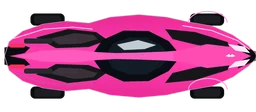
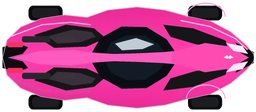
Update app version

diff --git a/tests/car_geometry_smoke.js b/tests/car_geometry_smoke.js
@@ -1,16 +1,89 @@
-/* Per-car OBB/contact/loadout geometry checks. */
-const assert=require('assert').strict,fs=require('fs'),path=require('path'),vm=require('vm');
+/* Per-car sprite contain/aspect-ratio + OBB/contact/loadout geometry checks. */
+const assert=require('assert').strict,fs=require('fs'),path=require('path'),vm=require('vm'),crypto=require('crypto');
 const ROOT=path.resolve(__dirname,'..');global.window=global;window.Racing={clamp:(v,a,b)=>Math.max(a,Math.min(b,v))};
 for(const f of ['public/js/content.js','public/js/car.js'])vm.runInThisContext(fs.readFileSync(path.join(ROOT,f),'utf8'),{filename:f});
 const R=Racing;
+
+function webpSize(file){
+  const b=fs.readFileSync(file);
+  assert.equal(b.toString('ascii',0,4),'RIFF',`${path.basename(file)} missing RIFF`);
+  assert.equal(b.toString('ascii',8,12),'WEBP',`${path.basename(file)} missing WEBP`);
+  for(let p=12;p+8<=b.length;){
+    const type=b.toString('ascii',p,p+4),size=b.readUInt32LE(p+4),d=p+8;
+    if(type==='VP8X'&&size>=10){
+      const width=1+b.readUIntLE(d+4,3),height=1+b.readUIntLE(d+7,3);return {width,height};
+    }
+    if(type==='VP8 '&&size>=10&&d+10<=b.length){
+      const width=b.readUInt16LE(d+6)&0x3fff,height=b.readUInt16LE(d+8)&0x3fff;return {width,height};
+    }
+    if(type==='VP8L'&&size>=5&&b[d]===0x2f){
+      const width=1+b[d+1]+((b[d+2]&0x3f)<<8);
+      const height=1+(b[d+2]>>6)+(b[d+3]<<2)+((b[d+4]&0x0f)<<10);return {width,height};
+    }
+    p=d+size+(size&1);
+  }
+  throw new Error(`${path.basename(file)} unsupported WebP header`);
+}
+function close(a,b,eps=1e-9){return Math.abs(a-b)<=eps;}
 function car(id,x=0,y=0,a=0){const c=new R.Car({maxSpeed:400,accel:210,brakePower:320,turnRate:2.32});c.setLoadout(id,'standard');c.x=x;c.y=y;c.angle=a;return c;}
 function contact(a,b,msg){assert.ok(R.intersectCarOBBs(a,b),msg);}
 function clear(a,b,msg){assert.equal(R.intersectCarOBBs(a,b),null,msg);}
-for(const id of R.REAL_CAR_IDS){const c=car(id);assert.equal(c.maxSpeed,400,`${id} loadout changed maxSpeed`);assert.equal(c.accel,210,`${id} loadout changed accel`);assert.equal(c.brakePower,320,`${id} loadout changed brake`);assert.equal(c.turnRate,2.32,`${id} loadout changed turnRate`);}
+
+// Pure contain sizing must preserve source ratio even when both visual bounds exist.
+let size=R.resolveSpriteSize({visualLength:100,visualWidth:100,raceScale:1,previewScale:1,preserveAspectRatio:true},200,100,false);
+assert.ok(close(size.length,100)&&close(size.width,50),'length-bound contain failed');
+size=R.resolveSpriteSize({visualLength:100,visualWidth:30,raceScale:1,previewScale:1,preserveAspectRatio:true},200,100,false);
+assert.ok(close(size.length,60)&&close(size.width,30),'width-bound contain failed');
+size=R.resolveSpriteSize({visualLength:70,raceScale:1,preserveAspectRatio:true},350,140,false);
+assert.ok(close(size.length/size.width,2.5),'single-bound preserveAspectRatio fallback failed');
+
+for(const id of R.REAL_CAR_IDS){
+  const g=R.CAR_GEOMETRY[id],meta=R.LIVERIES[id],sprite=meta?.sprite,collision=meta?.collision;
+  assert.ok(g,`${id} missing CAR_GEOMETRY`);assert.ok(sprite,`${id} missing sprite`);assert.equal(sprite.preserveAspectRatio,true,`${id} must preserve source aspect ratio`);
+  for(const key of ['visualLength','visualWidth','raceScale','previewScale'])assert.ok(Number.isFinite(g[key])&&g[key]>0,`${id} invalid ${key}`);
+  for(const key of ['raceOffsetX','raceOffsetY','previewOffsetX','previewOffsetY','collisionOffsetX','collisionOffsetY'])assert.ok(Number.isFinite(g[key]),`${id} invalid ${key}`);
+  for(const key of ['collisionLength','collisionWidth'])assert.ok(Number.isFinite(g[key])&&g[key]>0,`${id} invalid ${key}`);
+  assert.ok(collision&&collision.length===g.collisionLength&&collision.width===g.collisionWidth,`${id} collision metadata mismatch`);
+
+  const fullPath=path.join(ROOT,'public',sprite.src),thumbPath=path.join(ROOT,'public',sprite.thumbnail);
+  const full=webpSize(fullPath),thumb=webpSize(thumbPath),fullRatio=full.width/full.height,thumbRatio=thumb.width/thumb.height;
+  assert.ok(Math.abs(fullRatio-thumbRatio)<.012,`${id} full/thumbnail source ratios diverge`);
+
+  const race=R.resolveSpriteSize(sprite,full.width,full.height,false);
+  const preview=R.resolveSpriteSize(sprite,full.width,full.height,true);
+  const thumbnail=R.resolveSpriteSize(sprite,thumb.width,thumb.height,true);
+  for(const [mode,r] of [['race',race],['preview',preview],['thumbnail',thumbnail]]){
+    assert.ok(Number.isFinite(r.length)&&r.length>0&&Number.isFinite(r.width)&&r.width>0,`${id} ${mode} size invalid`);
+    assert.ok(r.length<=r.maxLength+1e-9&&r.width<=r.maxWidth+1e-9,`${id} ${mode} escapes contain bounds`);
+  }
+  assert.ok(Math.abs(race.length/race.width-fullRatio)<1e-10,`${id} race aspect ratio distorted`);
+  assert.ok(Math.abs(preview.length/preview.width-fullRatio)<1e-10,`${id} preview aspect ratio distorted`);
+  assert.ok(Math.abs(thumbnail.length/thumbnail.width-thumbRatio)<1e-10,`${id} thumbnail aspect ratio distorted`);
+  assert.ok(Math.abs(thumbnail.length/preview.length-1)<.015&&Math.abs(thumbnail.width/preview.width-1)<.015,`${id} thumbnail/full preview scale mismatch`);
+  // Catalog/garage previews fit one shared visual envelope while preserving each WebP ratio.
+  // Narrow/long bodies can stay longer and compact/wide hypercars can stay wider, but neither
+  // dimension may become an outlier. Gameplay sizing is checked separately below.
+  assert.ok(preview.length>=74&&preview.length<=81,`${id} preview length escaped normalized range: ${preview.length.toFixed(1)}`);
+  assert.ok(preview.width>=34&&preview.width<=49,`${id} preview width escaped normalized range: ${preview.width.toFixed(1)}`);
+  assert.ok(thumbnail.length>=74&&thumbnail.length<=81,`${id} thumbnail length escaped normalized range: ${thumbnail.length.toFixed(1)}`);
+  assert.ok(thumbnail.width>=34&&thumbnail.width<=49,`${id} thumbnail width escaped normalized range: ${thumbnail.width.toFixed(1)}`);
+  assert.ok(g.previewScale>=.9&&g.previewScale<=1.45,`${id} previewScale outside reasonable calibration range: ${g.previewScale}`);
+  assert.ok(race.length>=60&&race.length<=105&&race.width>=30&&race.width<=58,`${id} implausible tuned race size ${race.length.toFixed(1)}x${race.width.toFixed(1)}`);
+  assert.ok(collision.length>=race.length*.78&&collision.length<=race.length*1.12,`${id} collision length no longer follows visual body`);
+  assert.ok(collision.width>=race.width*.70&&collision.width<=race.width*1.05,`${id} collision width no longer follows visual body`);
+
+  const c=car(id);assert.equal(c.maxSpeed,400,`${id} loadout changed maxSpeed`);assert.equal(c.accel,210,`${id} loadout changed accel`);assert.equal(c.brakePower,320,`${id} loadout changed brake`);assert.equal(c.turnRate,2.32,`${id} loadout changed turnRate`);
+}
+
+
+// Guard this preview-only calibration from accidentally modifying gameplay geometry.
+const gameplayGeometry=R.REAL_CAR_IDS.map(id=>{const g=R.CAR_GEOMETRY[id];return [id,g.raceScale,g.raceOffsetX,g.raceOffsetY,g.collisionLength,g.collisionWidth,g.collisionOffsetX,g.collisionOffsetY];});
[1 lines of base64/hex data omitted]
+
 const chiron=car('bugatti-chiron-super-sport'),mary=car('aston-martin-valkyrie-mary');
 let sideGap=(chiron.collisionWidth+mary.collisionWidth)*.5;mary.y=sideGap-.5;contact(chiron,mary,'side-by-side near touch should collide');mary.y=sideGap+.5;clear(chiron,mary,'side-by-side separated cars should not collide');
 mary.x=(chiron.collisionLength+mary.collisionLength)*.5-.5;mary.y=0;contact(chiron,mary,'nose-to-tail near touch should collide');mary.x=(chiron.collisionLength+mary.collisionLength)*.5+.5;clear(chiron,mary,'nose-to-tail separated cars should not collide');
 mary.x=45;mary.y=22;mary.angle=Math.PI/5;contact(chiron,mary,'angled body contact should collide');
 // 13 offline bots + player grid geometry: adjacent rows are 140 apart and paired lanes are 68 apart.
 const grid=[];for(let i=0;i<14;i++){const c=new R.Car();c.setLoadout('apexLime','standard');c.x=-65-Math.floor(i/2)*140;c.y=i%2===0?-34:34;c.angle=0;grid.push(c);}for(let i=0;i<grid.length;i++)for(let j=i+1;j<grid.length;j++)clear(grid[i],grid[j],`start grid overlap ${i}/${j}`);
-console.log('car_geometry_smoke: OK (side + rear + angle + invariants + 13-bot grid)');
+console.log('car_geometry_smoke: OK (41 WebP ratios + contain bounds + preview parity + collisions + invariants + 13-bot grid)');

diff --git a/public/js/car.js b/public/js/car.js
@@ -13,6 +13,24 @@
     const img=new Image();img.decoding='async';img.src=src;spriteCache.set(src,img);return img;
   }
 
+  const positive=(value,fallback)=>Number.isFinite(value)&&value>0?value:fallback;
+  function resolveSpriteSize(spriteSpec,imageWidth,imageHeight,preview=false){
+    const spec=spriteSpec||{},iw=Number(imageWidth),ih=Number(imageHeight);
+    const hasNatural=Number.isFinite(iw)&&iw>0&&Number.isFinite(ih)&&ih>0;
+    const sourceRatio=hasNatural?iw/ih:0;
+    const visualScale=positive(preview?spec.previewScale:spec.raceScale,1);
+    const baseLength=positive(spec.maxVisualLength??spec.visualLength??spec.length,74);
+    const ratioWidth=sourceRatio?baseLength/sourceRatio:36.5;
+    const baseWidth=positive(spec.maxVisualWidth??spec.visualWidth??spec.width,ratioWidth);
+    const maxLength=baseLength*visualScale,maxWidth=baseWidth*visualScale;
+    if(spec.preserveAspectRatio&&hasNatural){
+      const containScale=Math.min(maxLength/iw,maxWidth/ih);
+      return {length:iw*containScale,width:ih*containScale,sourceRatio,maxLength,maxWidth};
+    }
+    return {length:maxLength,width:maxWidth,sourceRatio,maxLength,maxWidth};
+  }
+  R.resolveSpriteSize=resolveSpriteSize;
+
   // SAT helper for two car-oriented bounding boxes. The four candidate axes are
   // the local forward/right axes of each car; the smallest overlap is the MTV.
   function getCarOBB(car){
@@ -68,7 +86,7 @@
       this.trackIndex=0;this.progress=0;this.prevProgress=0;this.laps=0;this.checkpoint=0;
       this.onRoad=true;this.offroadTime=0;this.trueOffroadTime=0;this.controlledShoulderTime=0;this.collisionThisLap=false;this.offroadThisLap=false;
       this.lastImpact=0;this.steerVisual=0;this.throttleVisual=0;this.brakeVisual=0;
-      this.ai=null;this.rank=1;this.finishedLap=false;this.steerInput=0;this.effect='standard';this.effectTime=0;this.livery=null;this.liveryId='apexLime';this.spriteSpec=null;this.spriteImage=null;this.spriteAssetMode='full';this.gridPending=false;
+      this.ai=null;this.rank=1;this.finishedLap=false;this.steerInput=0;this.effect='standard';this.effectTime=0;this.livery=null;this.liveryId='apexLime';this.spriteSpec=null;this.spriteImage=null;this.spriteAssetMode='full';this._raceSpriteSize=null;this._previewSpriteSize=null;this.gridPending=false;
     }
 
     place(track,progress,lane=0){
@@ -241,20 +259,31 @@
       this.collisionOffsetX=collision?.offsetX??1.5;this.collisionOffsetY=collision?.offsetY??0;
       this.collisionRadius=Math.hypot(this.collisionLength*.5,this.collisionWidth*.5);
       const spriteSrc=this.spriteSpec&&(assetMode==='thumbnail'&&this.spriteSpec.thumbnail?this.spriteSpec.thumbnail:this.spriteSpec.src);
-      this.spriteImage=getSpriteImage(spriteSrc);
+      this.spriteImage=getSpriteImage(spriteSrc);this._raceSpriteSize=null;this._previewSpriteSize=null;
+    }
+
+    _getSpriteSize(preview=false){
+      const image=this.spriteImage;
+      if(!(this.spriteSpec&&image&&image.complete&&image.naturalWidth&&image.naturalHeight))return null;
+      const cacheKey=preview?'_previewSpriteSize':'_raceSpriteSize',cached=this[cacheKey];
+      if(cached&&cached.image===image&&cached.width===image.naturalWidth&&cached.height===image.naturalHeight)return cached.size;
+      const size=resolveSpriteSize(this.spriteSpec,image.naturalWidth,image.naturalHeight,preview);
+      this[cacheKey]={image,width:image.naturalWidth,height:image.naturalHeight,size};
+      return size;
     }
 
     setPaintOverride(paint=null){
       this.paintOverride=paint&&typeof paint==='object'?{...paint}:null;
     }
 
-    drawExhaust(ctx){
+    drawExhaust(ctx,resolvedLength=0){
       const effect=R.EFFECTS[this.effect];
       if(!effect||this.effect==='standard'||this.throttleVisual<=.65||this.brakeVisual>.1||this.speed<12)return;
       const t=this.effectTime,flicker=1+.12*Math.sin(t*53)+.08*Math.sin(t*89),length=(18+this.speed*.055)*this.throttleVisual*flicker;
       const preview=this.spriteAssetMode==='thumbnail'||this.spriteAssetMode==='preview';
       const visualScale=this.spriteSpec?(preview?(this.spriteSpec.previewScale||1):(this.spriteSpec.raceScale||1)):1;
-      const rearX=this.spriteSpec?-(this.spriteSpec.visualLength||this.spriteSpec.length||74)*visualScale*.47+(this.spriteSpec.exhaustOffsetX||0):-32;
+      const fallbackLength=this.spriteSpec?(this.spriteSpec.maxVisualLength||this.spriteSpec.visualLength||this.spriteSpec.length||74)*visualScale:0;
+      const rearX=this.spriteSpec?-(resolvedLength||fallbackLength)*.47+(this.spriteSpec.exhaustOffsetX||0):-32;
       const rearY=this.spriteSpec?.exhaustOffsetY||0;
       ctx.save();ctx.translate(0,rearY);ctx.globalCompositeOperation='lighter';
       for(let layer=0;layer<3;layer++){
@@ -274,21 +303,18 @@
 
       ctx.save();ctx.translate(this.x,this.y);ctx.rotate(this.angle);ctx.scale(scale,scale);
 
-      const spriteReady=this.spriteSpec&&this.spriteImage&&this.spriteImage.complete&&this.spriteImage.naturalWidth;
+      const spriteReady=this.spriteSpec&&this.spriteImage&&this.spriteImage.complete&&this.spriteImage.naturalWidth&&this.spriteImage.naturalHeight;
       const spritePreview=this.spriteAssetMode==='thumbnail'||this.spriteAssetMode==='preview';
-      const spriteVisualScale=spriteReady?(spritePreview?(this.spriteSpec.previewScale||1):(this.spriteSpec.raceScale||1)):1;
-      const sourceRatio=spriteReady?this.spriteImage.naturalWidth/Math.max(1,this.spriteImage.naturalHeight):0;
-      const baseLength=spriteReady?(this.spriteSpec.visualLength||this.spriteSpec.length||74):74;
-      const baseWidth=spriteReady?(this.spriteSpec.visualWidth||(this.spriteSpec.preserveAspectRatio&&sourceRatio?baseLength/sourceRatio:(this.spriteSpec.width||36.5))):36;
-      const spriteLength=baseLength*spriteVisualScale,spriteWidth=baseWidth*spriteVisualScale;
+      const spriteSize=spriteReady?this._getSpriteSize(spritePreview):null;
+      const spriteLength=spriteSize?.length||74,spriteWidth=spriteSize?.width||36;
 
       // Layered shadow follows each car's tuned visual envelope without expensive blur.
       ctx.save();ctx.translate(-1.5-brakeDive,2.2+lean*.55);ctx.fillStyle='#000';ctx.globalAlpha=.075;ctx.beginPath();ctx.ellipse(-1,0,spriteLength*.47,spriteWidth*.48,0,0,TAU);ctx.fill();ctx.globalAlpha=.11;ctx.beginPath();ctx.ellipse(-1,0,spriteLength*.40,spriteWidth*.39,0,0,TAU);ctx.fill();ctx.restore();
 
-      this.drawExhaust(ctx);
+      this.drawExhaust(ctx,spriteLength);
 
-      // Catalog cars use pre-tuned visual length/width independent of source WebP ratio.
-      // Physical performance remains shared; only the collision footprint follows the body.
+      // Catalog cars fit proportionally inside their per-model visual bounds.
+      // Physical performance remains unchanged; collision geometry stays independently tuned.
       if(spriteReady){
         const ox=spritePreview?(this.spriteSpec.previewOffsetX??this.spriteSpec.offsetX??0):(this.spriteSpec.raceOffsetX??this.spriteSpec.offsetX??0);
         const oy=spritePreview?(this.spriteSpec.previewOffsetY??this.spriteSpec.offsetY??0):(this.spriteSpec.raceOffsetY??this.spriteSpec.offsetY??0);

diff --git a/public/js/content.js b/public/js/content.js
@@ -130,52 +130,56 @@
     "mercedes-amg-one":265000,
     "aston-martin-valkyrie-mary":280000
   });
+  // visualLength/visualWidth are per-car contain bounds. They are maxima, not
+  // independent stretch targets: preserveAspectRatio sprites always keep the WebP ratio.
+  // previewScale is calibrated per model for a stable catalog/garage visual footprint;
+  // raceScale and collision geometry remain independent and unchanged by preview tuning.
   const geo=(visualLength,visualWidth,raceScale,previewScale,collisionLength,collisionWidth,raceOffsetX=0,raceOffsetY=0,collisionOffsetX=0,collisionOffsetY=0)=>Object.freeze({
     visualLength,visualWidth,raceScale,previewScale,raceOffsetX,raceOffsetY,previewOffsetX:raceOffsetX,previewOffsetY:raceOffsetY,
     collisionLength,collisionWidth,collisionOffsetX,collisionOffsetY
   });
   const CAR_GEOMETRY=Object.freeze({
-    "vw-golf-gti":geo(66,28,1.14,1.15,66.2,29.4,0,0,0.0,0.0),
-    "honda-civic-type-r":geo(70,29,1.15,1.15,70.8,30.7,0,0,0.0,0.0),
-    "toyota-gt86":geo(69,29,1.14,1.14,69.2,30.4,0,0,0.0,0.0),
-    "ford-mustang-gt":geo(76,31,1.17,1.17,78.2,33.4,0.4,0,0.3,0.0),
-    "subaru-wrx-sti":geo(72,29.5,1.15,1.15,72.9,31.2,0,0,0.0,0.0),
-    "bmw-330i":geo(73,29.5,1.15,1.15,73.9,31.2,0,0,0.0,0.0),
-    "bmw-m5-f90":geo(78,30.5,1.18,1.17,81.0,33.1,0.3,0,0.22,0.0),
-    "mercedes-cls-63-amg":geo(79,30.5,1.18,1.17,82.0,33.1,0.5,0,0.38,0.0),
-    "bmw-m4-competition":geo(75,30,1.17,1.16,77.2,32.3,0.2,0,0.15,0.0),
-    "mercedes-amg-c63-s":geo(76,30.5,1.17,1.17,78.2,32.8,0.3,0,0.22,0.0),
-    "audi-rs5":geo(75,30,1.16,1.16,76.6,32.0,0.2,0,0.15,0.0),
-    "nissan-gtr-r35":geo(76,31,1.18,1.18,78.9,33.7,0.2,0,0.15,0.0),
-    "chevrolet-corvette-c8":geo(76,31.5,1.19,1.18,79.6,34.5,0.6,0,0.45,0.0),
-    "porsche-911":geo(72,30.5,1.18,1.18,74.8,33.1,0,0,0.0,0.0),
-    "mercedes-amg-gt-63-s":geo(80,31,1.21,1.2,85.2,34.5,0.7,0,0.52,0.0),
-    "bmw-m8-competition":geo(79,31,1.2,1.19,83.4,34.2,0.5,0,0.38,0.0),
-    "bentley-continental-gt":geo(81,33,1.21,1.2,86.2,36.7,0.4,0,0.3,0.0),
-    "aston-martin-vantage":geo(74,32.5,1.19,1.19,77.5,35.6,0.4,0,0.3,0.0),
-    "maserati-mc20":geo(76,32.5,1.2,1.19,80.3,35.9,0.5,0,0.38,0.0),
-    "audi-r8":geo(74,32.5,1.19,1.18,77.5,35.6,0.4,0,0.3,0.0),
-    "lamborghini-huracan":geo(74,32.2,1.2,1.19,78.1,35.5,0.5,0,0.38,0.0),
-    "ferrari-488-gtb":geo(75,32.2,1.2,1.19,79.2,35.5,0.6,0,0.45,0.0),
-    "mclaren-720s":geo(75,32,1.2,1.2,79.2,35.3,0.5,0,0.38,0.0),
-    "porsche-918-spyder":geo(76,32,1.21,1.2,80.9,35.6,0.3,0,0.22,0.0),
-    "lamborghini-aventador":geo(78,33,1.22,1.21,83.7,37.0,0.7,0,0.52,0.0),
-    "ford-gt":geo(79,33,1.22,1.21,84.8,37.0,0.8,0,0.6,0.0),
-    "bugatti-veyron":geo(77,35,1.22,1.21,82.7,39.3,0.2,0,0.15,0.0),
-    "ferrari-enzo":geo(78,34,1.22,1.21,83.7,38.2,1.0,0,0.75,0.0),
-    "mclaren-p1":geo(76,32.5,1.21,1.2,80.9,36.2,0.5,0,0.38,0.0),
-    "lamborghini-sian":geo(80,34,1.23,1.22,86.6,38.5,0.8,0,0.6,0.0),
-    "pagani-huayra":geo(77,34,1.22,1.21,82.7,38.2,0.5,0,0.38,0.0),
-    "koenigsegg-agera-rs":geo(77,36,1.22,1.21,82.7,40.4,0.3,0,0.22,0.0),
-    "mercedes-benz-slr-mclaren":geo(84,33.5,1.25,1.23,92.4,38.5,1.6,0,1.2,0.0),
-    "ferrari-laferrari":geo(79,33.5,1.23,1.22,85.5,37.9,0.8,0,0.6,0.0),
-    "bugatti-chiron-super-sport":geo(79,35.5,1.24,1.23,86.2,40.5,0.5,0,0.38,0.0),
-    "bugatti-divo":geo(80,35.5,1.24,1.23,87.3,40.5,0.6,0,0.45,0.0),
-    "koenigsegg-jesko":geo(80,35,1.24,1.23,87.3,39.9,0.5,0,0.38,0.0),
-    "pagani-huayra-bc":geo(78,34.5,1.23,1.22,84.4,39.0,0.4,0,0.3,0.0),
-    "lamborghini-veneno":geo(83,34.5,1.25,1.24,91.3,39.7,1.0,0,0.75,0.0),
-    "mercedes-amg-one":geo(80,33.8,1.24,1.23,87.3,38.6,0.7,0,0.52,0.0),
-    "aston-martin-valkyrie-mary":geo(80,34.5,1.23,1.22,86.6,39.0,0.7,0,0.52,0.0)
+    "vw-golf-gti":geo(59.3,31.2,1.14,1.349,66.2,29.4,0,0,0.0,0.0),
+    "honda-civic-type-r":geo(62.2,32.7,1.15,1.286,70.8,30.7,0,0,0.0,0.0),
+    "toyota-gt86":geo(61.7,32.4,1.14,1.297,69.2,30.4,0,0,0.0,0.0),
+    "ford-mustang-gt":geo(66.6,35.4,1.17,1.201,78.2,33.4,0.4,0,0.3,0.0),
+    "subaru-wrx-sti":geo(63.8,33.3,1.15,1.258,72.9,31.2,0,0,0.0,0.0),
+    "bmw-330i":geo(64.9,33.2,1.15,1.233,73.9,31.2,0,0,0.0,0.0),
+    "bmw-m5-f90":geo(66.9,35.6,1.18,1.196,81.0,33.1,0.3,0,0.22,0.0),
+    "mercedes-cls-63-amg":geo(71.8,33.5,1.18,1.079,82.0,33.1,0.5,0,0.38,0.0),
+    "bmw-m4-competition":geo(65.1,34.6,1.17,1.229,77.2,32.3,0.2,0,0.15,0.0),
+    "mercedes-amg-c63-s":geo(67,34.6,1.17,1.194,78.2,32.8,0.3,0,0.22,0.0),
+    "audi-rs5":geo(65.7,34.3,1.16,1.218,76.6,32.0,0.2,0,0.15,0.0),
+    "nissan-gtr-r35":geo(66.8,35.2,1.18,1.199,78.9,33.7,0.2,0,0.15,0.0),
+    "chevrolet-corvette-c8":geo(66.4,36.1,1.19,1.205,79.6,34.5,0.6,0,0.45,0.0),
+    "porsche-911":geo(63.3,34.7,1.18,1.264,74.8,33.1,0,0,0.0,0.0),
+    "mercedes-amg-gt-63-s":geo(66.2,37.5,1.21,1.208,85.2,34.5,0.7,0,0.52,0.0),
+    "bmw-m8-competition":geo(66.2,37,1.2,1.208,83.4,34.2,0.5,0,0.38,0.0),
+    "bentley-continental-gt":geo(69.3,38.6,1.21,1.158,86.2,36.7,0.4,0,0.3,0.0),
+    "aston-martin-vantage":geo(65.5,36.7,1.19,1.226,77.5,35.6,0.4,0,0.3,0.0),
+    "maserati-mc20":geo(67,36.9,1.2,1.194,80.3,35.9,0.5,0,0.38,0.0),
+    "audi-r8":geo(65.3,36.8,1.19,1.225,77.5,35.6,0.4,0,0.3,0.0),
+    "lamborghini-huracan":geo(64,37.2,1.2,1.252,78.1,35.5,0.5,0,0.38,0.0),
+    "ferrari-488-gtb":geo(66,36.6,1.2,1.212,79.2,35.5,0.6,0,0.45,0.0),
+    "mclaren-720s":geo(66.1,36.3,1.2,1.21,79.2,35.3,0.5,0,0.38,0.0),
+    "porsche-918-spyder":geo(65.5,37.1,1.21,1.221,80.9,35.6,0.3,0,0.22,0.0),
+    "lamborghini-aventador":geo(67.1,38.4,1.22,1.196,83.7,37.0,0.7,0,0.52,0.0),
+    "ford-gt":geo(68.3,38.2,1.22,1.171,84.8,37.0,0.8,0,0.6,0.0),
+    "bugatti-veyron":geo(70.1,38.5,1.22,1.141,82.7,39.3,0.2,0,0.15,0.0),
+    "ferrari-enzo":geo(65.9,40.3,1.22,1.195,83.7,38.2,1.0,0,0.75,0.0),
+    "mclaren-p1":geo(64.6,38.2,1.21,1.243,80.9,36.2,0.5,0,0.38,0.0),
+    "lamborghini-sian":geo(67.4,40.4,1.23,1.187,86.6,38.5,0.8,0,0.6,0.0),
+    "pagani-huayra":geo(67,39.1,1.22,1.194,82.7,38.2,0.5,0,0.38,0.0),
+    "koenigsegg-agera-rs":geo(69.5,39.9,1.22,1.151,82.7,40.4,0.3,0,0.22,0.0),
+    "mercedes-benz-slr-mclaren":geo(69.6,40.4,1.25,1.149,92.4,38.5,1.6,0,1.2,0.0),
+    "ferrari-laferrari":geo(64.8,40.9,1.23,1.174,85.5,37.9,0.8,0,0.6,0.0),
+    "bugatti-chiron-super-sport":geo(66.4,42.3,1.24,1.135,86.2,40.5,0.5,0,0.38,0.0),
+    "bugatti-divo":geo(67.1,42.3,1.24,1.135,87.3,40.5,0.6,0,0.45,0.0),
+    "koenigsegg-jesko":geo(66,42.4,1.24,1.136,87.3,39.9,0.5,0,0.38,0.0),
+    "pagani-huayra-bc":geo(65.7,40.9,1.23,1.176,84.4,39.0,0.4,0,0.3,0.0),
+    "lamborghini-veneno":geo(67.5,42.4,1.25,1.132,91.3,39.7,1.0,0,0.75,0.0),
+    "mercedes-amg-one":geo(64.6,41.9,1.24,1.161,87.3,38.6,0.7,0,0.52,0.0),
+    "aston-martin-valkyrie-mary":geo(79.4,34.7,1.23,0.989,86.6,39.0,0.7,0,0.52,0.0)
   });
   for(const car of REAL_CARS){
     const {id,...base}=car,g=CAR_GEOMETRY[id];

diff --git a/tests/car_catalog_smoke.js b/tests/car_catalog_smoke.js
@@ -18,17 +18,16 @@ for(const id of ids){
   const car=R.LIVERIES[id];assert.ok(car,`missing ${id}`);assert.equal(car.price,expectedPrices[id],`${id} price`);prices.push(car.price);counts[car.category]=(counts[car.category]||0)+1;
   assert.equal(car.currency,'CR');assert.equal(car.realCar,true);assert.ok(car.sprite,`${id} sprite metadata`);assert.equal(car.sprite.orientation,'nose-right',`${id} orientation`);
   for(const key of ['visualLength','visualWidth','raceScale','previewScale'])assert.ok(Number.isFinite(car.sprite[key])&&car.sprite[key]>0,`${id} invalid ${key}`);
-  assert.ok(car.sprite.visualLength/car.sprite.visualWidth>=2.05&&car.sprite.visualLength/car.sprite.visualWidth<=2.70,`${id} implausible visual aspect`);
+  assert.equal(car.sprite.preserveAspectRatio,true,`${id} source aspect ratio must be preserved`);
+  assert.ok(car.sprite.visualLength/car.sprite.visualWidth>=1.45&&car.sprite.visualLength/car.sprite.visualWidth<=2.40,`${id} implausible contain-bound aspect`);
   assert.ok(car.collision&&Number.isFinite(car.collision.length)&&car.collision.length>0,`${id} collisionLength`);assert.ok(Number.isFinite(car.collision.width)&&car.collision.width>0,`${id} collisionWidth`);
   assert.ok(Number.isFinite(car.collision.offsetX)&&Number.isFinite(car.collision.offsetY),`${id} collision offsets`);
-  const drawnL=car.sprite.visualLength*car.sprite.raceScale,drawnW=car.sprite.visualWidth*car.sprite.raceScale;
-  assert.ok(car.collision.length<drawnL&&car.collision.length>drawnL*.72,`${id} collision length must stay inside body`);
-  assert.ok(car.collision.width<drawnW&&car.collision.width>drawnW*.76,`${id} collision width must stay inside body`);
   for(const key of ['src','thumbnail']){const rel=car.sprite[key],abs=path.join(ROOT,'public',rel);assert.ok(fs.existsSync(abs),`${id} missing ${key}: ${rel}`);assert.ok(fs.statSync(abs).size>1500,`${id} empty/tiny ${key}`);assert.equal(rel,rel.toLowerCase(),`${id} asset path must be lowercase`);}
 }
 assert.deepEqual(counts,{basic:6,sport:7,premium:6,rare:7,legendary:7,lux:8});assert.equal(new Set(prices).size,41,'real-car prices should be unique');
 const luxIds=R.REAL_CAR_IDS.filter(id=>R.LIVERIES[id].category==='lux');assert.ok(luxIds.includes('aston-martin-valkyrie-mary')&&luxIds.length===8,'Mary/LUX catalog mismatch');
-for(const id of ['bugatti-veyron','bugatti-chiron-super-sport','bugatti-divo'])assert.ok(R.LIVERIES[id].sprite.visualLength/R.LIVERIES[id].sprite.visualWidth>=2.20,`${id} still too square`);
+assert.ok(R.LIVERIES['mercedes-cls-63-amg'].sprite.visualLength/R.LIVERIES['mercedes-cls-63-amg'].sprite.visualWidth>2.1,'CLS should retain its long source silhouette');
+assert.ok(R.LIVERIES['bugatti-chiron-super-sport'].sprite.visualLength/R.LIVERIES['bugatti-chiron-super-sport'].sprite.visualWidth<1.65,'Chiron contain bounds should retain its compact source silhouette');
 const mary=R.LIVERIES['aston-martin-valkyrie-mary'];assert.equal(mary.name,'Mary');assert.equal(mary.category,'lux');assert.equal(mary.price,280000);assert.equal(mary.bodyColor.toLowerCase(),'#ff3fae');
 const r8=R.LIVERIES['audi-r8'];assert.equal(r8.brownVisual,true);assert.match(r8.bodyColor,/^#5a3527$/i);
 for(const legacy of ['apexLime','crimsonVelocity','iceVector','auroraPulse'])assert.ok(R.LIVERIES[legacy]?.legacy&&R.LIVERIES[legacy]?.shopHidden,`legacy ${legacy} support missing`);

diff --git a/tests/porsche_shop_smoke.js b/tests/porsche_shop_smoke.js
@@ -13,5 +13,5 @@ let s=R.normalizeSave({credits:67999});assert(R.shopAction(s,'livery','porsche-9
 s=R.normalizeSave({credits:68000});assert(R.shopAction(s,'livery','porsche-911')==='purchased'&&s.credits===0,'68000 CR purchase failed');assert(R.shopAction(s,'livery','porsche-911')==='selected'&&s.credits===0&&s.selectedLivery==='porsche-911','repeat purchase/select protection failed');s=R.normalizeSave(s);assert(s.ownedLiveries.includes('porsche-911')&&s.selectedLivery==='porsche-911','save persistence normalization failed');
 const html=fs.readFileSync(path.join(ROOT,'public/index.html'),'utf8'),css=fs.readFileSync(path.join(ROOT,'public/css/style.css'),'utf8'),garage=fs.readFileSync(path.join(ROOT,'public/js/garage.js'),'utf8'),car=fs.readFileSync(path.join(ROOT,'public/js/car.js'),'utf8');
 for(const cat of ['all','basic','sport','premium','rare','legendary','lux'])assert(html.includes(`data-category="${cat}"`),`missing ${cat} category tab`);
-assert(garage.includes('R.getCatalogEntries')&&garage.includes("'thumbnail'"),'catalog filter/thumbnail path missing');assert(css.includes('.shop-item.rarity-premium')&&css.includes('.shop-item.rarity-lux::before')&&css.includes('luxCardShimmer'),'premium/LUX styles missing');assert(car.includes('this.spriteSpec')&&car.includes('drawImage(this.spriteImage'),'gameplay sprite renderer missing');assert(car.includes('spriteVisualScale')&&car.includes('raceScale')&&car.includes('previewScale'),'per-car visual scale renderer missing');assert(car.includes('this.livery.collision')||car.includes('const collision=this.livery.collision'),'per-car collision metadata path missing');assert(car.includes('visualLength')&&car.includes('visualWidth'),'independent visual length/width renderer missing');assert(garage.includes("'preview'"),'garage preview should use independent preview scale');
+assert(garage.includes('R.getCatalogEntries')&&garage.includes("'thumbnail'"),'catalog filter/thumbnail path missing');assert(css.includes('.shop-item.rarity-premium')&&css.includes('.shop-item.rarity-lux::before')&&css.includes('luxCardShimmer'),'premium/LUX styles missing');assert(car.includes('this.spriteSpec')&&car.includes('drawImage(this.spriteImage'),'gameplay sprite renderer missing');assert(car.includes('resolveSpriteSize')&&car.includes('raceScale')&&car.includes('previewScale'),'per-car contain/visual scale renderer missing');assert(car.includes('this.livery.collision')||car.includes('const collision=this.livery.collision'),'per-car collision metadata path missing');assert(car.includes('Math.min(maxLength/iw,maxWidth/ih)')&&car.includes('visualLength')&&car.includes('visualWidth'),'object-fit contain renderer missing');assert(garage.includes("'preview'"),'garage preview should use independent preview scale');
 console.log(JSON.stringify({basic:basic.length,sport:sport.length,premium:premium.length,porschePrice:p.price,saveVersion:s.saveVersion},null,2));

diff --git a/public/js/garage.js b/public/js/garage.js
@@ -15,7 +15,7 @@
         shop:{tab:'livery',category:'all',previewLivery:save.selectedLivery,previewEffect:save.selectedEffect},
         garage:{tab:'livery',category:'all',previewLivery:save.selectedLivery,previewEffect:save.selectedEffect}
       };
-      this.car=new R.Car();this.car.x=280;this.car.y=175;this.car.angle=-.20;this.car.speed=260;this.car.throttleVisual=1;
+      this.car=new R.Car();this.car.x=280;this.car.y=190;this.car.angle=-.20;this.car.speed=260;this.car.throttleVisual=1;
       this.bindView('shop');this.bindView('garage');
     }
     view(mode=this.mode){
@@ -96,7 +96,7 @@
           return `<article class="shop-item ${isSelected?'selected':''} ${isCars?'car-card '+R.CAR_CATEGORIES[cat].className:''}" data-item="${id}">${isCars?badgeMarkup(cat):''}<button type="button" class="item-preview" aria-label="Предпросмотр ${item.name}"><canvas width="280" height="112"></canvas></button><div class="item-title">${item.name}</div><div class="item-price"><strong>${priceText}</strong><span>${status}</span></div>${shortfallText}${button}</article>`;
         }).join('');
       }
-      this.cards=Array.from(v.items.querySelectorAll('.shop-item')).map(el=>{const car=new R.Car();car.x=155;car.y=56;car.speed=280;car.throttleVisual=1;car.setLoadout(isCars?el.dataset.item:s.previewLivery,isCars?s.previewEffect:el.dataset.item,'thumbnail');return {car,canvas:el.querySelector('canvas')};});
+      this.cards=Array.from(v.items.querySelectorAll('.shop-item')).map(el=>{const car=new R.Car();car.x=140;car.y=56;car.speed=280;car.throttleVisual=1;car.setLoadout(isCars?el.dataset.item:s.previewLivery,isCars?s.previewEffect:el.dataset.item,'thumbnail');return {car,canvas:el.querySelector('canvas')};});
       if(!this.categoryEmpty)this.car.setLoadout(s.previewLivery,s.previewEffect,'preview');
       if(this.categoryEmpty){
         const meta=R.CAR_CATEGORIES[s.category]||R.CAR_CATEGORIES.all;v.previewName.textContent=meta.label;v.previewEffect.textContent=mode==='shop'?'НОВЫЕ МОДЕЛИ ГОТОВЯТСЯ':'ПОПОЛНИТЕ КОЛЛЕКЦИЮ В МАГАЗИНЕ';
@@ -111,7 +111,7 @@
       for(let y=45;y<350;y+=38){ctx.beginPath();ctx.moveTo(20,y);ctx.lineTo(540,y);ctx.stroke();}
       ctx.strokeStyle='rgba(141,255,73,.3)';ctx.beginPath();ctx.ellipse(280,190,210,105,0,0,Math.PI*2);ctx.stroke();
       if(!this.categoryEmpty){this.car.effectTime+=dt;this.car.draw(ctx,3.8);}
-      for(const item of this.cards){const c=item.canvas.getContext('2d');c.clearRect(0,0,280,112);item.car.effectTime+=dt;item.car.draw(c,2.1);}
+      for(const item of this.cards){const c=item.canvas.getContext('2d');c.clearRect(0,0,280,112);item.car.effectTime+=dt;item.car.draw(c,1.6);}
     }
   }
   R.Garage=Garage;

diff --git a/public/css/style.css b/public/css/style.css
@@ -304,8 +304,8 @@ html,body,#app { touch-action: auto; }
 .shop-empty { grid-column:1/-1;min-height:154px;display:flex;flex-direction:column;align-items:center;justify-content:center;text-align:center;border:1px dashed rgba(255,255,255,.13);border-radius:13px;background:rgba(255,255,255,.025);padding:18px;color:#9fb0a8; }
 .shop-empty strong { color:#d6ffc7;font-size:11px;letter-spacing:.16em;margin-bottom:7px; }
 .shop-empty span { max-width:230px;font-size:9px;line-height:1.45; }
-.item-preview { padding:0;display:block;width:100%;background:transparent;min-height:45px; }
-.item-preview canvas { width:100%;max-height:82px;object-fit:contain;display:block;pointer-events:none; }
+.item-preview { padding:8px 0 0;display:grid;place-items:center;width:100%;background:transparent;min-height:45px; }
+.item-preview canvas { width:min(100%,205px);height:auto;aspect-ratio:280/112;display:block;pointer-events:none; }
 .item-title { font-size:10px;font-weight:900;letter-spacing:.02em; }
 .item-price { display:flex;align-items:baseline;justify-content:space-between;gap:5px;margin:5px 0 2px;color:#b4c3ba;font-size:9px; }
 .item-price strong { min-width:0;color:#e8f4e9;font-size:10px;letter-spacing:.02em;white-space:nowrap; }
@@ -337,7 +337,7 @@ html,body,#app { touch-action: auto; }
   .shop-body { grid-template-columns:.65fr 1.35fr;gap:13px; }
   .shop-items { gap:6px; }
   .shop-item { padding:6px; }
-  .item-preview canvas { height:43px; }
+  .item-preview canvas { width:min(100%,180px);height:auto; }
   .garage-preview>strong { font-size:14px; }
   .garage-preview p { font-size:8px; }
   .purchase-btn { min-height:38px; }
